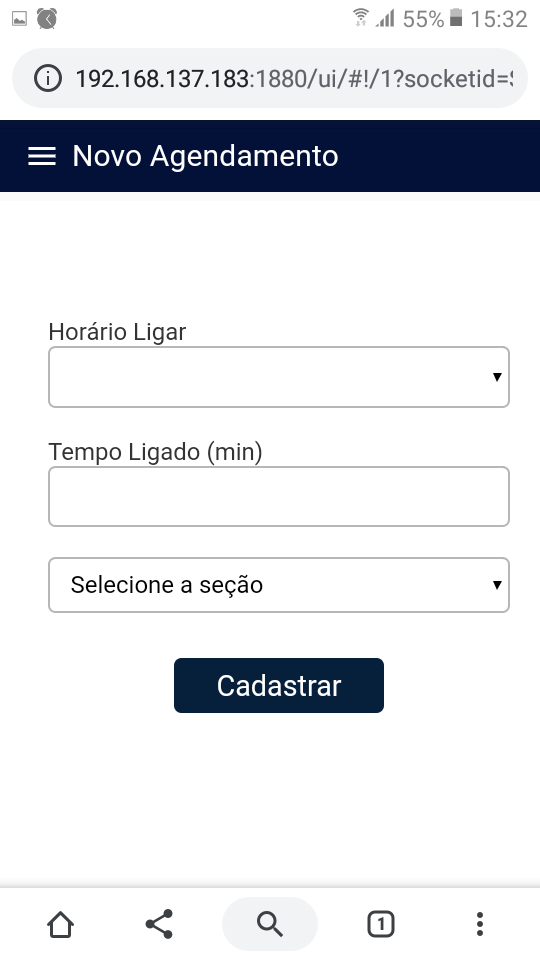
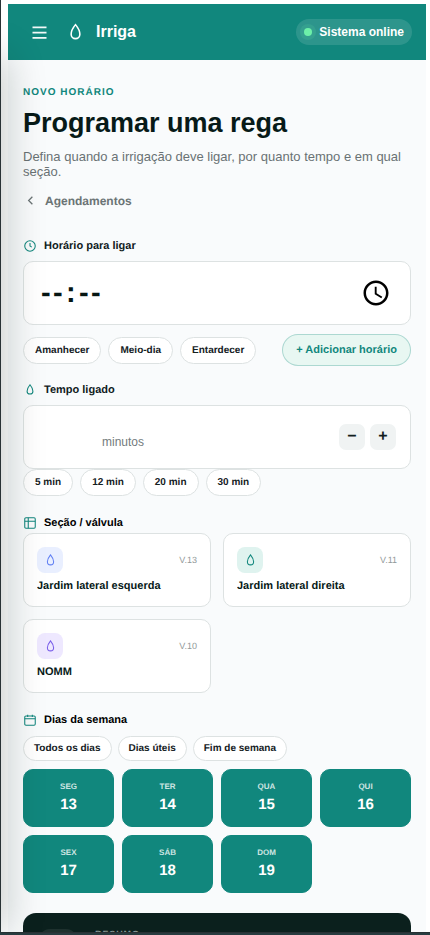
screens

diff --git a/README.md b/README.md
@@ -341,6 +341,6 @@ systems; create schedules and valve configuration for the new installation.
 |---|---|
 | ![Schedules](screenshot%20application/schedules.png) | ![Create schedule](screenshot%20application/create-schedule.png) |
 
-| Valves | Default time | Logs |
-|---|---|---|
-| ![Valves](screenshot%20application/valves.png) | ![Default time](screenshot%20application/default-time.png) | ![Logs](screenshot%20application/logs.png) |
+| History | Settings |
+|---|---|
+| ![History](screenshot%20application/history.png) | ![Settings](screenshot%20application/settings.png) |